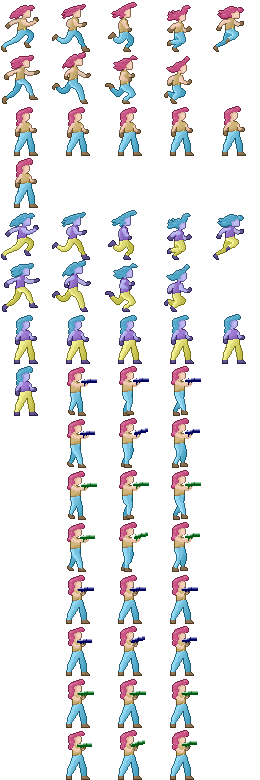
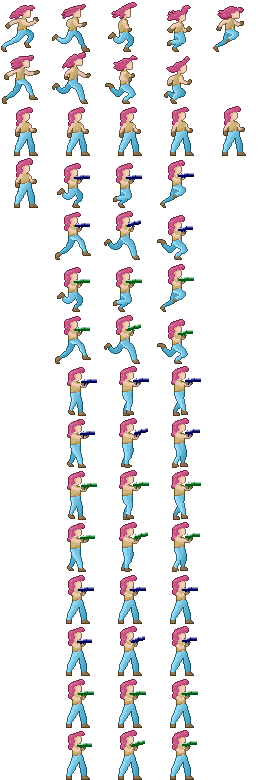
Aggiunta animazione del salto mentre si spara

diff --git a/src/scenes/base_2.js b/src/scenes/base_2.js
@@ -2,87 +2,91 @@ let img_player;
 let player;
 let muri_livello;
 
-// Variabili Sfondo (puoi cambiarle per il livello 2)
+// Variabili Sfondo
 let parallasse1;
 let ts_background_1;
 
 function preload(s) {
-  // Caricamento Player (se non è già in cache)
-  img_player = PP.assets.sprite.load_spritesheet(s, "assets/images/PLAYER/sparo 52x52.png", 52, 52);
+    
+    // 1. CARICAMENTO MODULI ESTERNI
+    preload_hud(s);
+    preload_proiettili(s); 
 
-  s.load.image("proiettile_asset", "assets/images/PLAYER/Proiettile.png");
-  s.load.image("proiettile_inquinante_asset", "assets/images/PLAYER/Proiettile_inquinante.png");
+    // 2. CARICAMENTO PLAYER LOCALE
+    img_player = PP.assets.sprite.load_spritesheet(s, "assets/images/PLAYER/sparo 52x52.png", 52, 52);
 
-  // Caricamento Tileset e pre-caricamenti generali
-  if (window.godot_preload) {
-    window.godot_preload(s);
-  }
-  preload_player(s);
-  preload_hud(s)
+    // Caricamento Tileset
+    if (window.godot_preload) {
+        window.godot_preload(s);
+    }
 
-  // Eventuale sfondo diverso per livello 2
-  parallasse1 = PP.assets.image.load(s, "assets/images/parallax/parallasse_1.png");
+    // Eventuale sfondo diverso per livello 2
+    parallasse1 = PP.assets.image.load(s, "assets/images/parallax/parallasse_1.png");
 }
 
 function create(s) {
-  // 1. Sfondo
-  const PARALLAX_WIDTH = 15800;
-  const PARALLAX_HEIGHT = 3000;
-  ts_background_1 = PP.assets.tilesprite.add(s, parallasse1, 0, 500, PARALLAX_WIDTH, PARALLAX_HEIGHT, 0, 0.5);
-  ts_background_1.geometry.scale_x = 0.6;
-  ts_background_1.geometry.scale_y = 0.6;
-  ts_background_1.tile_geometry.scroll_factor_x = 0;
+    // 1. Sfondo
+    const PARALLAX_WIDTH = 15800;
+    const PARALLAX_HEIGHT = 3000;
+    ts_background_1 = PP.assets.tilesprite.add(s, parallasse1, 0, 500, PARALLAX_WIDTH, PARALLAX_HEIGHT, 0, 0.5);
+    ts_background_1.geometry.scale_x = 0.6;
+    ts_background_1.geometry.scale_y = 0.6;
+    ts_background_1.tile_geometry.scroll_factor_x = 0;
 
-  s.cameras.main.setZoom(2);
+    s.cameras.main.setZoom(2);
 
-  // 2. COSTRUZIONE MAPPA - LIVELLO 2
-  // Passiamo esplicitamente LIV2 (che deve trovarsi in livello_2.js)
-  if (window.godot_create) {
-    if (typeof LIV2 !== 'undefined') {
-      muri_livello = window.godot_create(s, LIV2);
-    } else {
-      console.error("ERRORE: LIV2 non trovato. Hai caricato livello_2.js nell'HTML?");
+    // 2. COSTRUZIONE MAPPA - LIVELLO 2
+    if (window.godot_create) {
+        if (typeof LIV2 !== 'undefined') {
+            muri_livello = window.godot_create(s, LIV2);
+        } else {
+            console.error("ERRORE: LIV2 non trovato. Hai caricato livello_2.js nell'HTML?");
+        }
     }
-  }
 
-  // 3. RECUPERO SPAWN POINT (Impostato da godot_create leggendo LIV2)
-  // Se non trova lo spawn nel file Godot, usa coordinate di default
-  let startX = PP.game_state.get_variable("spawn_x") || 100;
-  let startY = PP.game_state.get_variable("spawn_y") || 100;
+    // 3. RECUPERO SPAWN POINT
+    let startX = PP.game_state.get_variable("spawn_x") || 100;
+    let startY = PP.game_state.get_variable("spawn_y") || 100;
 
-  // Creazione Player
-  player = PP.assets.sprite.add(s, img_player, startX, startY, 0.5, 1);
-  PP.physics.add(s, player, PP.physics.type.DYNAMIC);
-  s.physics.world.TILE_BIAS = 32;
+    // 4. CREAZIONE PLAYER
+    // Ora img_player esiste sicuramente perché l'abbiamo dichiarata e caricata sopra
+    player = PP.assets.sprite.add(s, img_player, startX, startY, 0.5, 1);
+    
+    PP.physics.add(s, player, PP.physics.type.DYNAMIC);
+    s.physics.world.TILE_BIAS = 32;
 
-  // Collisioni
-  if (muri_livello) {
-    s.physics.add.collider(player.ph_obj, muri_livello);
-  }
+    // Collisioni
+    if (muri_livello) {
+        s.physics.add.collider(player.ph_obj, muri_livello);
+    }
 
-  configure_player_animations(s, player);
-  PP.camera.start_follow(s, player, 0, 50);
-  create_hud(s)
+    // Configurazione Animazioni
+    configure_player_animations(s, player);
+    
+    // Camera e HUD
+    PP.camera.start_follow(s, player, 0, 50);
+    create_hud(s);
 }
 
 function update(s) {
-  // Gestione Parallasse Semplice
-  ts_background_1.tile_geometry.x = PP.camera.get_scroll_x(s) * 0.3;
+    // Gestione Parallasse Semplice
+    ts_background_1.tile_geometry.x = PP.camera.get_scroll_x(s) * 0.3;
 
-  // Update Player
-  if (player) manage_player_update(s, player);
+    // Update Player
+    // Passiamo muri_livello per far funzionare i proiettili
+    if (player) manage_player_update(s, player, muri_livello);
 
-  // LOGICA CAMBIO LIVELLO -> Verso Livello 3
-  // Sostituisci 3000 con la coordinata X di fine livello 2
-  if (player.ph_obj.x > 176 * 32) {
-    console.log("Fine Livello 2! Caricamento Livello 3...");
-    PP.scenes.start("base_3");
-  }
-  update_hud(s)
+    // LOGICA CAMBIO LIVELLO -> Verso Livello 3
+    if (player.ph_obj.x > 176 * 32) {
+        console.log("Fine Livello 2! Caricamento Livello 3...");
+        PP.scenes.start("base_3");
+    }
+    
+    update_hud(s);
 }
 
 function destroy(s) {
-  // Pulizia
+    // Pulizia
 }
 
 // Registriamo la scena con nome "base_2"

diff --git a/src/player.js b/src/player.js
@@ -22,11 +22,17 @@ function configure_player_animations(s, player) {
     PP.assets.sprite.animation_add(player, "jump_down", 6, 7, 10, 0);
     PP.assets.sprite.animation_add(player, "stop", 21, 21, 10, 0);
 
-    PP.assets.sprite.animation_add_list(player, "sparo_rinnovabile", [41, 42, 43, 36, 37, 38], 8, -1);
-    PP.assets.sprite.animation_add_list(player, "sparo_inquinante", [51, 52, 53, 46, 47, 48], 11, -1);
+    PP.assets.sprite.animation_add_list(player, "sparo_inquinante", [41, 42, 43, 36, 37, 38], 8, -1);
+    PP.assets.sprite.animation_add_list(player, "sparo_rinnovabile", [51, 52, 53, 46, 47, 48], 11, -1);
 
-    PP.assets.sprite.animation_add_list(player, "sparo_rinnovabile_fermo", [61, 62, 63, 56, 57, 58], 8, -1);
-    PP.assets.sprite.animation_add_list(player, "sparo_inquinante_fermo", [71, 72, 73, 66, 67, 68], 11, -1);
+    PP.assets.sprite.animation_add_list(player, "sparo_inquinante_fermo", [61, 62, 63, 56, 57, 58], 8, -1);
+    PP.assets.sprite.animation_add_list(player, "sparo_rinnovabile_fermo", [71, 72, 73, 66, 67, 68], 11, -1);
+
+    PP.assets.sprite.animation_add_list(player, "sparo_inquinante_salto_su", [16, 17, 18], 8, 0);
+    PP.assets.sprite.animation_add_list(player, "sparo_rinnovabile_salto_su", [26, 27, 28], 11, 0);
+
+    PP.assets.sprite.animation_add_list(player, "sparo_inquinante_salto_giu", [21, 22, 23], 8, 0);
+    PP.assets.sprite.animation_add_list(player, "sparo_rinnovabile_salto_giu", [31, 32, 33], 11, 0);
 
     // HITBOX 
     PP.physics.set_collision_rectangle(player, 20, 44, -10, 30);
@@ -65,10 +71,10 @@ function manage_player_update(s, player, muri_livello) {
             player.modalita_inquinante = hud_modalita_inquinante;
 
             if (player.modalita_inquinante) {
-                player.fire_rate = 545;
+                player.fire_rate = 545; // Calcolo: 6 frame / 11 FPS * 1000 = 545ms
                 player.anim_sparo_corrente = "sparo_inquinante";
             } else {
-                player.fire_rate = 750;
+                player.fire_rate = 750; // Calcolo: 6 frame / 8 FPS * 1000 = 750ms
                 player.anim_sparo_corrente = "sparo_rinnovabile";
             }
         }
@@ -162,30 +168,45 @@ function manage_player_update(s, player, muri_livello) {
 
     // 5. GESTIONE ANIMAZIONI
 
-    let anim_sparo_corsa = player.anim_sparo_corrente; // "sparo" o "sparo_inquinante"
+    let anim_sparo_corsa = player.anim_sparo_corrente; 
     let anim_sparo_fermo;
+    let anim_sparo_salto_su;  // [NUOVO] Variabile per salto in alto
+    let anim_sparo_salto_giu; // [NUOVO] Variabile per salto in basso
 
-    // Decido quale animazione "fermo" usare in base alla modalità arma
     if (player.modalita_inquinante == true) {
         anim_sparo_fermo = "sparo_inquinante_fermo";
+        anim_sparo_salto_su = "sparo_inquinante_salto_su";
+        anim_sparo_salto_giu = "sparo_inquinante_salto_giu";
     } else {
         anim_sparo_fermo = "sparo_rinnovabile_fermo";
+        anim_sparo_salto_su = "sparo_rinnovabile_salto_su";
+        anim_sparo_salto_giu = "sparo_rinnovabile_salto_giu";
     }
 
     if (!is_on_solid_ground) {
         // --- IN ARIA ---
+        
+        // Controllo velocità verticale per sapere se va SU o GIÙ
+        let v_y = PP.physics.get_velocity_y(player);
+
         if (player.sparo_attivo) {
-            // Se sparo in aria -> Uso quella di corsa (o potresti farne una specifica per il salto)
-            next_anim = anim_sparo_corsa;
+            // [NUOVO] LOGICA SALTO CON SPARO
+            if (v_y < 0) {
+                next_anim = anim_sparo_salto_su;  // Sta salendo e sparando
+            } else {
+                next_anim = anim_sparo_salto_giu; // Sta scendendo e sparando
+            }
+
         } else {
-            // Se NON sparo in aria
-            if (PP.physics.get_velocity_y(player) < 0) {
+            // LOGICA SALTO NORMALE (SENZA SPARO)
+            if (v_y < 0) {
                 next_anim = "jump_up";
-            } else if (PP.physics.get_velocity_y(player) > 0) {
+            } else if (v_y > 0) {
                 next_anim = "jump_down";
             }
         }
 
+        // Doppio Salto
         if (PP.interactive.kb.is_key_down(s, PP.key_codes.SPACE) && space_pressed == false && mid_jump == true) {
             space_pressed = true;
             PP.physics.set_velocity_y(player, -jump_init_speed);
@@ -195,14 +216,12 @@ function manage_player_update(s, player, muri_livello) {
     } else {
         // --- A TERRA ---
         if (player.sparo_attivo) {
-            // SE SPARO
             if (is_moving) {
-                next_anim = anim_sparo_corsa; // Sparo mentre corro
+                next_anim = anim_sparo_corsa; 
             } else {
-                next_anim = anim_sparo_fermo;  // Sparo da fermo
+                next_anim = anim_sparo_fermo;  
             }
         } else {
-            // SE NON SPARO
             if (is_moving) {
                 next_anim = "run";
             } else {

diff --git a/src/HUD.js b/src/HUD.js
@@ -64,13 +64,10 @@ function create_hud(s) {
     pistola.geometry.scale_x = 1.3;
     pistola.geometry.scale_y = 1.3;
 
-    // 2. Definiamo le animazioni (ORA che 'pistola' esiste)
-    // Creiamo due "stati":
-    // "anim_normale": usa solo il frame [0]
-    // "anim_inquinante": usa solo il frame [1]
+    // 2. Definiamo le animazioni
 
-    PP.assets.sprite.animation_add_list(pistola, "anim_normale", [0], 1, 0);
-    PP.assets.sprite.animation_add_list(pistola, "anim_inquinante", [1], 1, 0);
+    PP.assets.sprite.animation_add_list(pistola, "anim_normale", [1], 1, 0);
+    PP.assets.sprite.animation_add_list(pistola, "anim_inquinante", [0], 1, 0);
 
     // Avviamo con quella normale
     PP.assets.sprite.animation_play(pistola, "anim_normale");
